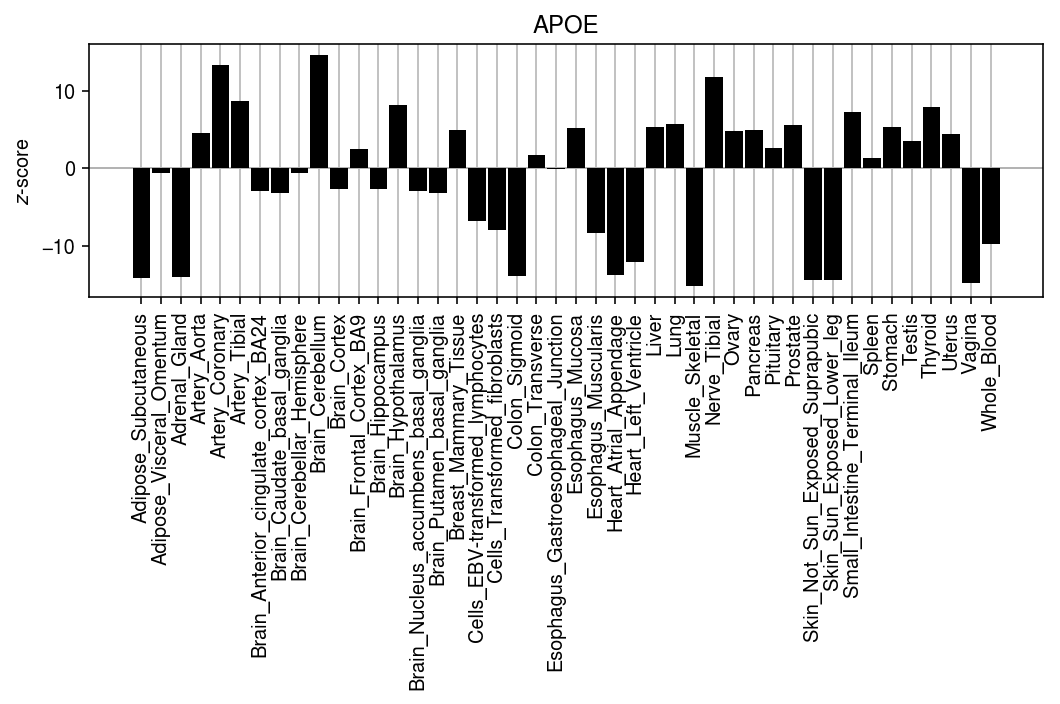
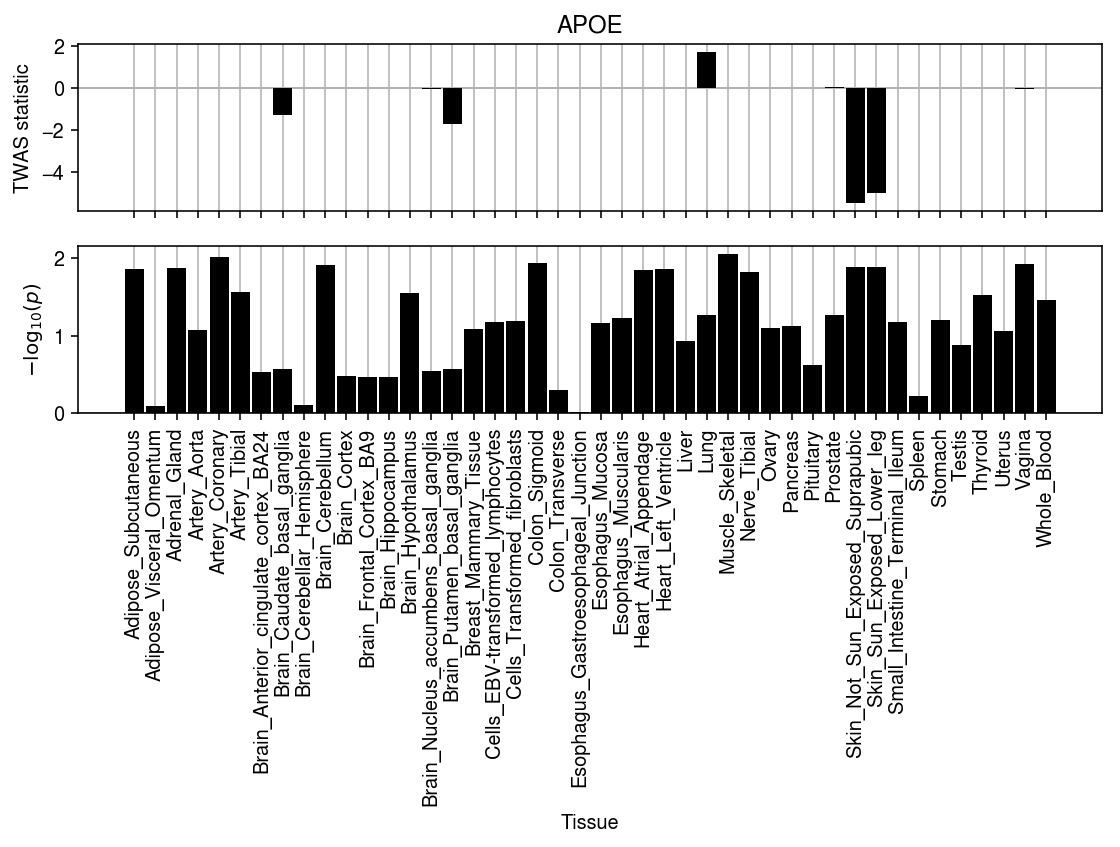
Look at TWAS null distribution

Changed region(s): [[0.0, 0.0, 0.9962, 1.0]]

diff --git a/docs/twas.html b/docs/twas.html
@@ -1,7 +1,7 @@
 <!DOCTYPE html>
 <html lang="en">
 <head>
-<!-- 2020-04-04 Sat 18:57 -->
+<!-- 2020-04-04 Sat 21:48 -->
 <meta charset="utf-8">
 <meta name="viewport" content="width=device-width, initial-scale=1">
 <title>TWAS pipeline</title>
@@ -617,22 +617,73 @@ Estimate the TWAS \(z\)-score.
 <span class="org-variable-name">u</span>, <span class="org-variable-name">d</span>, <span class="org-variable-name">vt</span> = np.linalg.svd(X, full_matrices=<span class="org-constant">False</span>)
 <span class="org-variable-name">d</span>[d &lt; 1e-4] = 0
 <span class="org-variable-name">R</span> = pd.DataFrame(vt.T.dot(np.diag(np.square(d))).dot(vt) / X.shape[0], index=X.columns, columns=X.columns)
-<span class="org-variable-name">stat</span> = z.dot(Bs) / np.sqrt(np.diag(Bs.T.dot(R).dot(Bs)))
+</pre>
+</div>
+
+<p>
+Compare the permutation null distribution of the TWAS statistic to the
+theoretical null.
+</p>
+
+<div class="org-src-container">
+<pre class="src src-ipython">np.random.seed(1)
+<span class="org-variable-name">n_perm</span> = 100000
+<span class="org-variable-name">stat</span> = z @ Bs
+<span class="org-variable-name">B</span> = []
+<span class="org-variable-name">z_copy</span> = z.values.copy()
+<span class="org-keyword">for</span> i <span class="org-keyword">in</span> <span class="org-builtin">range</span>(n_perm):
+  np.random.shuffle(z_copy)
+  B.append(z_copy @ Bs)
+<span class="org-variable-name">B</span> = np.array(B).squeeze()
 </pre>
 </div>
 
 <div class="org-src-container">
+<pre class="src src-ipython"><span class="org-variable-name">perm_logp</span> = -np.log10((np.square(stat.values).reshape(1, -1) &lt; np.square(B)).mean(axis=0))
+</pre>
+</div>
+
+<div class="org-src-container">
+<pre class="src src-ipython"><span class="org-variable-name">tis</span> = [<span class="org-string">'Whole_Blood'</span>, <span class="org-string">'Lung'</span>, <span class="org-string">'Skin_Sun_Exposed_Lower_leg'</span>, <span class="org-string">'Brain_Caudate_basal_ganglia'</span>]
+<span class="org-variable-name">idx</span> = stat.index.isin(tis)
+plt.clf()
+<span class="org-variable-name">fig</span>, <span class="org-variable-name">ax</span> = plt.subplots(1, 4)
+fig.set_size_inches(8, 2.25)
+
+<span class="org-keyword">for</span> a, b, s_, v_, t <span class="org-keyword">in</span> <span class="org-builtin">zip</span>(ax, B[:,idx], stat.loc[idx], v[idx], stat.index[idx]):
+  a.hist(b, bins=10, density=<span class="org-constant">True</span>, color=<span class="org-string">'0.7'</span>)
+  a.axvline(s_, lw=1, c=<span class="org-string">'r'</span>)
+  a.set_title(<span class="org-string">' '</span>.join(t.split(<span class="org-string">'_'</span>)[:2]))
+  a.set_xlim(-6, 6)
+  a.set_xlabel(<span class="org-string">'TWAS statistic'</span>)
+ax[0].set_ylabel(<span class="org-string">'Density'</span>)
+fig.tight_layout()
+</pre>
+</div>
+
+
+<div class="figure">
+<p><img src="figure/twas.org/apoe-twas-null.png" alt="apoe-twas-null.png">
+</p>
+</div>
+
+<div class="org-src-container">
 <pre class="src src-ipython">plt.clf()
-plt.gcf().set_size_inches(7.5, 5)
+<span class="org-variable-name">fig</span>, <span class="org-variable-name">ax</span> = plt.subplots(2, 1, sharex=<span class="org-constant">True</span>)
+fig.set_size_inches(8, 6)
 <span class="org-variable-name">grid</span> = np.arange(stat.shape[0])
-plt.axhline(y=0, lw=1, color=<span class="org-string">'0.7'</span>)
-plt.grid(axis=<span class="org-string">'x'</span>, color=<span class="org-string">'0.7'</span>)
-plt.bar(grid, stat, width=.9, color=<span class="org-string">'k'</span>, zorder=3)
-plt.xticks(grid, stat.index, rotation=90)
-plt.xlabel(<span class="org-string">'Tissue'</span>)
-plt.ylabel(<span class="org-string">'$z$-score'</span>)
-plt.title(<span class="org-string">'APOE'</span>)
-plt.tight_layout()
+ax[0].bar(grid, stat, width=.9, color=<span class="org-string">'k'</span>, zorder=3)
+ax[0].set_ylabel(<span class="org-string">'TWAS statistic'</span>)
+ax[1].bar(grid, perm_logp, width=.9, color=<span class="org-string">'k'</span>, zorder=3)
+<span class="org-keyword">for</span> a <span class="org-keyword">in</span> ax:
+  a.set_xticks(grid)
+  a.axhline(y=0, lw=1, color=<span class="org-string">'0.7'</span>)
+  a.grid(axis=<span class="org-string">'x'</span>, color=<span class="org-string">'0.7'</span>)
+ax[0].set_title(<span class="org-string">'APOE'</span>)
+ax[1].set_xticklabels(stat.index, rotation=90)
+ax[1].set_xlabel(<span class="org-string">'Tissue'</span>)
+ax[1].set_ylabel(r<span class="org-string">'$-\log_{10}(p)$'</span>)
+fig.tight_layout()
 </pre>
 </div>
 
@@ -697,7 +748,7 @@ Run the entire pipeline.
 </div>
 <div id="postamble" class="status">
 <p class="author">Author: Abhishek Sarkar</p>
-<p class="date">Created: 2020-04-04 Sat 18:57</p>
+<p class="date">Created: 2020-04-04 Sat 21:48</p>
 <p class="validation"><a href="http://validator.w3.org/check?uri=referer">Validate</a></p>
 </div>
 </body>

diff --git a/docs/brain.html b/docs/brain.html
@@ -1,7 +1,7 @@
 <!DOCTYPE html>
 <html lang="en">
 <head>
-<!-- 2020-04-04 Sat 18:57 -->
+<!-- 2020-04-04 Sat 21:48 -->
 <meta charset="utf-8">
 <meta name="viewport" content="width=device-width, initial-scale=1">
 <title>AD brain-specific TWAS analysis</title>
@@ -376,7 +376,7 @@ In each brain tissue, find the significant gene-level associations in IGAP (FDR 
 </div>
 <div id="postamble" class="status">
 <p class="author">Author: Abhishek Sarkar</p>
-<p class="date">Created: 2020-04-04 Sat 18:57</p>
+<p class="date">Created: 2020-04-04 Sat 21:48</p>
 <p class="validation"><a href="http://validator.w3.org/check?uri=referer">Validate</a></p>
 </div>
 </body>

diff --git a/docs/twas-analysis.html b/docs/twas-analysis.html
@@ -1,7 +1,7 @@
 <!DOCTYPE html>
 <html lang="en">
 <head>
-<!-- 2020-04-04 Sat 18:57 -->
+<!-- 2020-04-04 Sat 21:48 -->
 <meta charset="utf-8">
 <meta name="viewport" content="width=device-width, initial-scale=1">
 <title>Tissue-specific TWAS analysis</title>
@@ -943,7 +943,7 @@ pd.concat({i: pd.Series(Z.columns[m1.labels_ == i]) <span class="org-keyword">fo
 </div>
 <div id="postamble" class="status">
 <p class="author">Author: Abhishek Sarkar</p>
-<p class="date">Created: 2020-04-04 Sat 18:57</p>
+<p class="date">Created: 2020-04-04 Sat 21:48</p>
 <p class="validation"><a href="http://validator.w3.org/check?uri=referer">Validate</a></p>
 </div>
 </body>

diff --git a/docs/index.html b/docs/index.html
@@ -1,7 +1,7 @@
 <!DOCTYPE html>
 <html lang="en">
 <head>
-<!-- 2020-04-04 Sat 18:57 -->
+<!-- 2020-04-04 Sat 21:48 -->
 <meta charset="utf-8">
 <meta name="viewport" content="width=device-width, initial-scale=1">
 <title>Factored QTL analysis</title>
@@ -256,7 +256,7 @@ Technical details:
 </div>
 <div id="postamble" class="status">
 <p class="author">Author: Abhishek Sarkar</p>
-<p class="date">Created: 2020-04-04 Sat 18:57</p>
+<p class="date">Created: 2020-04-04 Sat 21:48</p>
 <p class="validation"><a href="http://validator.w3.org/check?uri=referer">Validate</a></p>
 </div>
 </body>

diff --git a/docs/models.html b/docs/models.html
@@ -1,7 +1,7 @@
 <!DOCTYPE html>
 <html lang="en">
 <head>
-<!-- 2020-04-04 Sat 18:57 -->
+<!-- 2020-04-04 Sat 21:48 -->
 <meta charset="utf-8">
 <meta name="viewport" content="width=device-width, initial-scale=1">
 <title>fQTL models</title>
@@ -511,7 +511,7 @@ applying fQTL to GTEx v8.
 </div>
 <div id="postamble" class="status">
 <p class="author">Author: Abhishek Sarkar</p>
-<p class="date">Created: 2020-04-04 Sat 18:57</p>
+<p class="date">Created: 2020-04-04 Sat 21:48</p>
 <p class="validation"><a href="http://validator.w3.org/check?uri=referer">Validate</a></p>
 </div>
 </body>

diff --git a/docs/dense.html b/docs/dense.html
@@ -1,7 +1,7 @@
 <!DOCTYPE html>
 <html lang="en">
 <head>
-<!-- 2020-04-04 Sat 18:57 -->
+<!-- 2020-04-04 Sat 21:48 -->
 <meta charset="utf-8">
 <meta name="viewport" content="width=device-width, initial-scale=1">
 <title>Dense factors</title>
@@ -471,7 +471,7 @@ dev.off()
 </div>
 <div id="postamble" class="status">
 <p class="author">Author: Abhishek Sarkar</p>
-<p class="date">Created: 2020-04-04 Sat 18:57</p>
+<p class="date">Created: 2020-04-04 Sat 21:48</p>
 <p class="validation"><a href="http://validator.w3.org/check?uri=referer">Validate</a></p>
 </div>
 </body>
